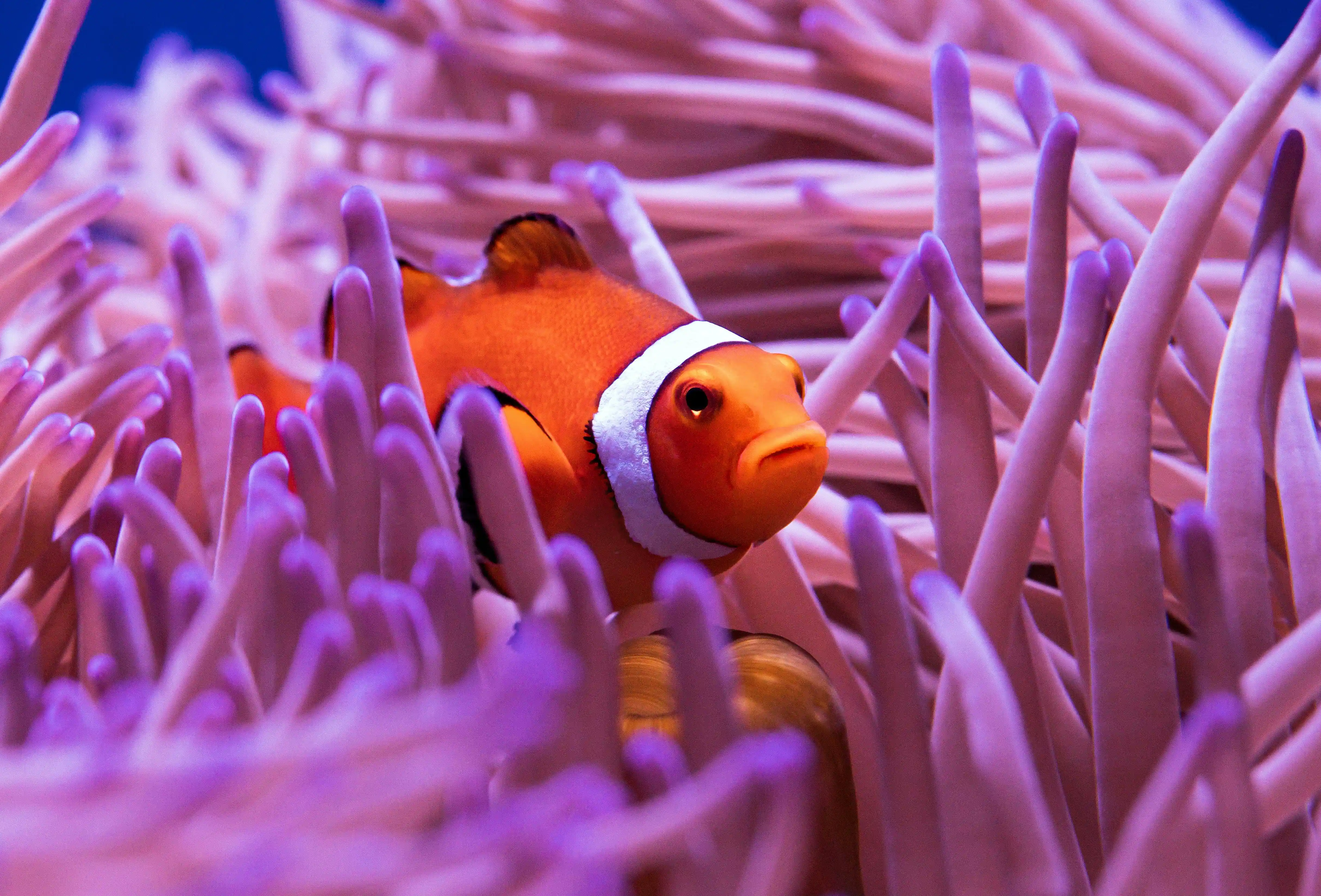
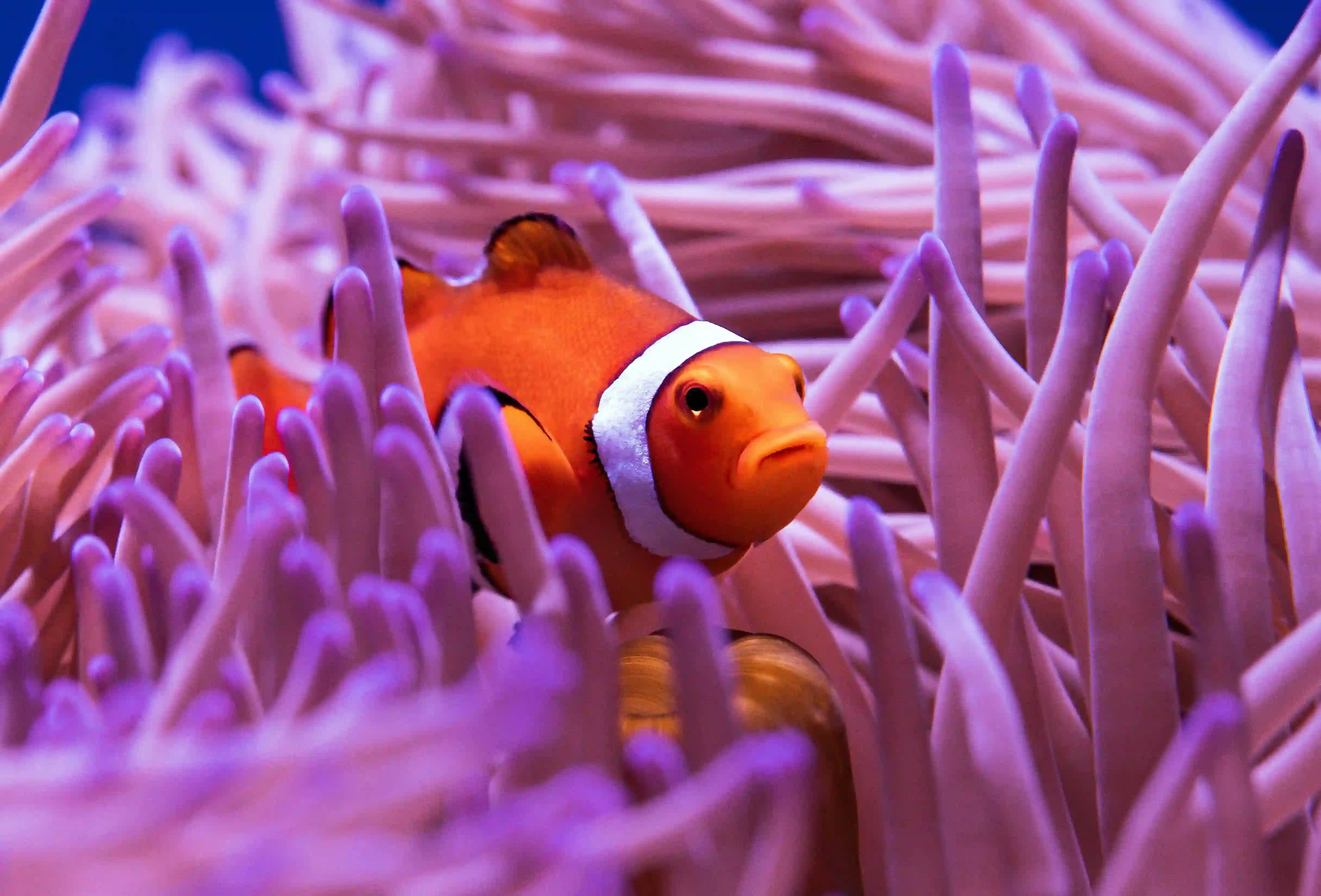
CHORE: 이미지 파일 크기 줄임 프로필 사진 transition 스타일 주석 처리

diff --git a/src/components/MyPage/MyPageUserAvatarListModal.jsx b/src/components/MyPage/MyPageUserAvatarListModal.jsx
@@ -28,6 +28,7 @@ const ModalContainer = styled.div`
 
 const HeaderTitle = styled.h1`
   align-self: center;
+  color: ${theme.colors.text};
   font-size: ${theme.fontSizes.title};
 
   /* 1200px / 16px = 75 */
@@ -58,11 +59,11 @@ const MyBasicAvatar = styled(AccountCircleIcon)`
 
   cursor: pointer;
 
-  transition: all 0.3s ease-in-out !important;
+  /* transition: all 0.3s ease-in-out !important;
 
   &:hover {
     transform: scale(1.1);
-  }
+  } */
 
   /* 1200px / 16px = 75 */
   @media (max-width: 75em) {
@@ -92,11 +93,11 @@ const Image = styled.img`
   object-fit: cover;
 
   cursor: pointer;
-  transition: all 0.3s ease-in-out;
+  /* transition: all 0.3s ease-in-out;
 
   &:hover {
     transform: scale(1.1);
-  }
+  } */
 
   /* 1200px / 16px = 75 */
   @media (max-width: 75em) {
@@ -172,7 +173,7 @@ export default function MyPageUserAvatarListModal({
     <ModalContainer className="modal-container" onClick={handleModalClick}>
       <ModalWrapper>
         <HeaderTitle>
-          <TypingText strings={['원하시는 프로필 사진을 선택해주세요! 😸']} />
+          <TypingText strings={['원하시는 프로필 사진을 선택해주세요!']} />
         </HeaderTitle>
         <ImageList>
           <MyBasicAvatar className="basic" onClick={handleImageClick} />

diff --git a/src/pages/Login.jsx b/src/pages/Login.jsx
@@ -150,14 +150,7 @@ const Login = () => {
         {/* <HeaderTitle style={{ color: '#ff5000' }}>Lost & Found</HeaderTitle> */}
         {/* <HeaderTitle>로그인</HeaderTitle> */}
         <HeaderTitle>
-          <TypingText
-            strings={[
-              '안녕하세요!',
-              'LAF에 방문해주셔서',
-              '감사합니다 🦊',
-              '로그인을 해주세요 👀',
-            ]}
-          />
+          <TypingText strings={['찾았습니다.', '지금 로그인해주세요.']} />
         </HeaderTitle>
         <LoginForm onSubmit={handleSubmit}>
           {/* <FormLabel htmlFor="email">이메일</FormLabel> */}

diff --git a/src/components/UI/TypingText.jsx b/src/components/UI/TypingText.jsx
@@ -5,9 +5,10 @@ const TypingText = ({ strings }) => {
   useEffect(() => {
     new TypeIt('#myElement', {
       strings: strings,
-      speed: 110,
+      speed: 65,
       breakLines: false,
       lifeLike: true,
+      cursor: false,
     }).go();
   }, []);
   return <div id="myElement">{/* TypeIt이 텍스트를 렌더링할 요소 */}</div>;

diff --git a/src/components/MyPage/MyPageUserAvatar.jsx b/src/components/MyPage/MyPageUserAvatar.jsx
@@ -13,12 +13,12 @@ import profile8 from '../../assets/profiles/profile8.webp';
 
 const AvatarWrapper = styled.div`
   position: relative;
-
   cursor: pointer;
-  transition: all 0.3s ease-in-out;
+
+  /* transition: all 0.3s ease-in-out;
   &:hover {
     transform: scale(1.1);
-  }
+  } */
 `;
 
 const MyBasicAvatar = styled(AccountCircleIcon)`
